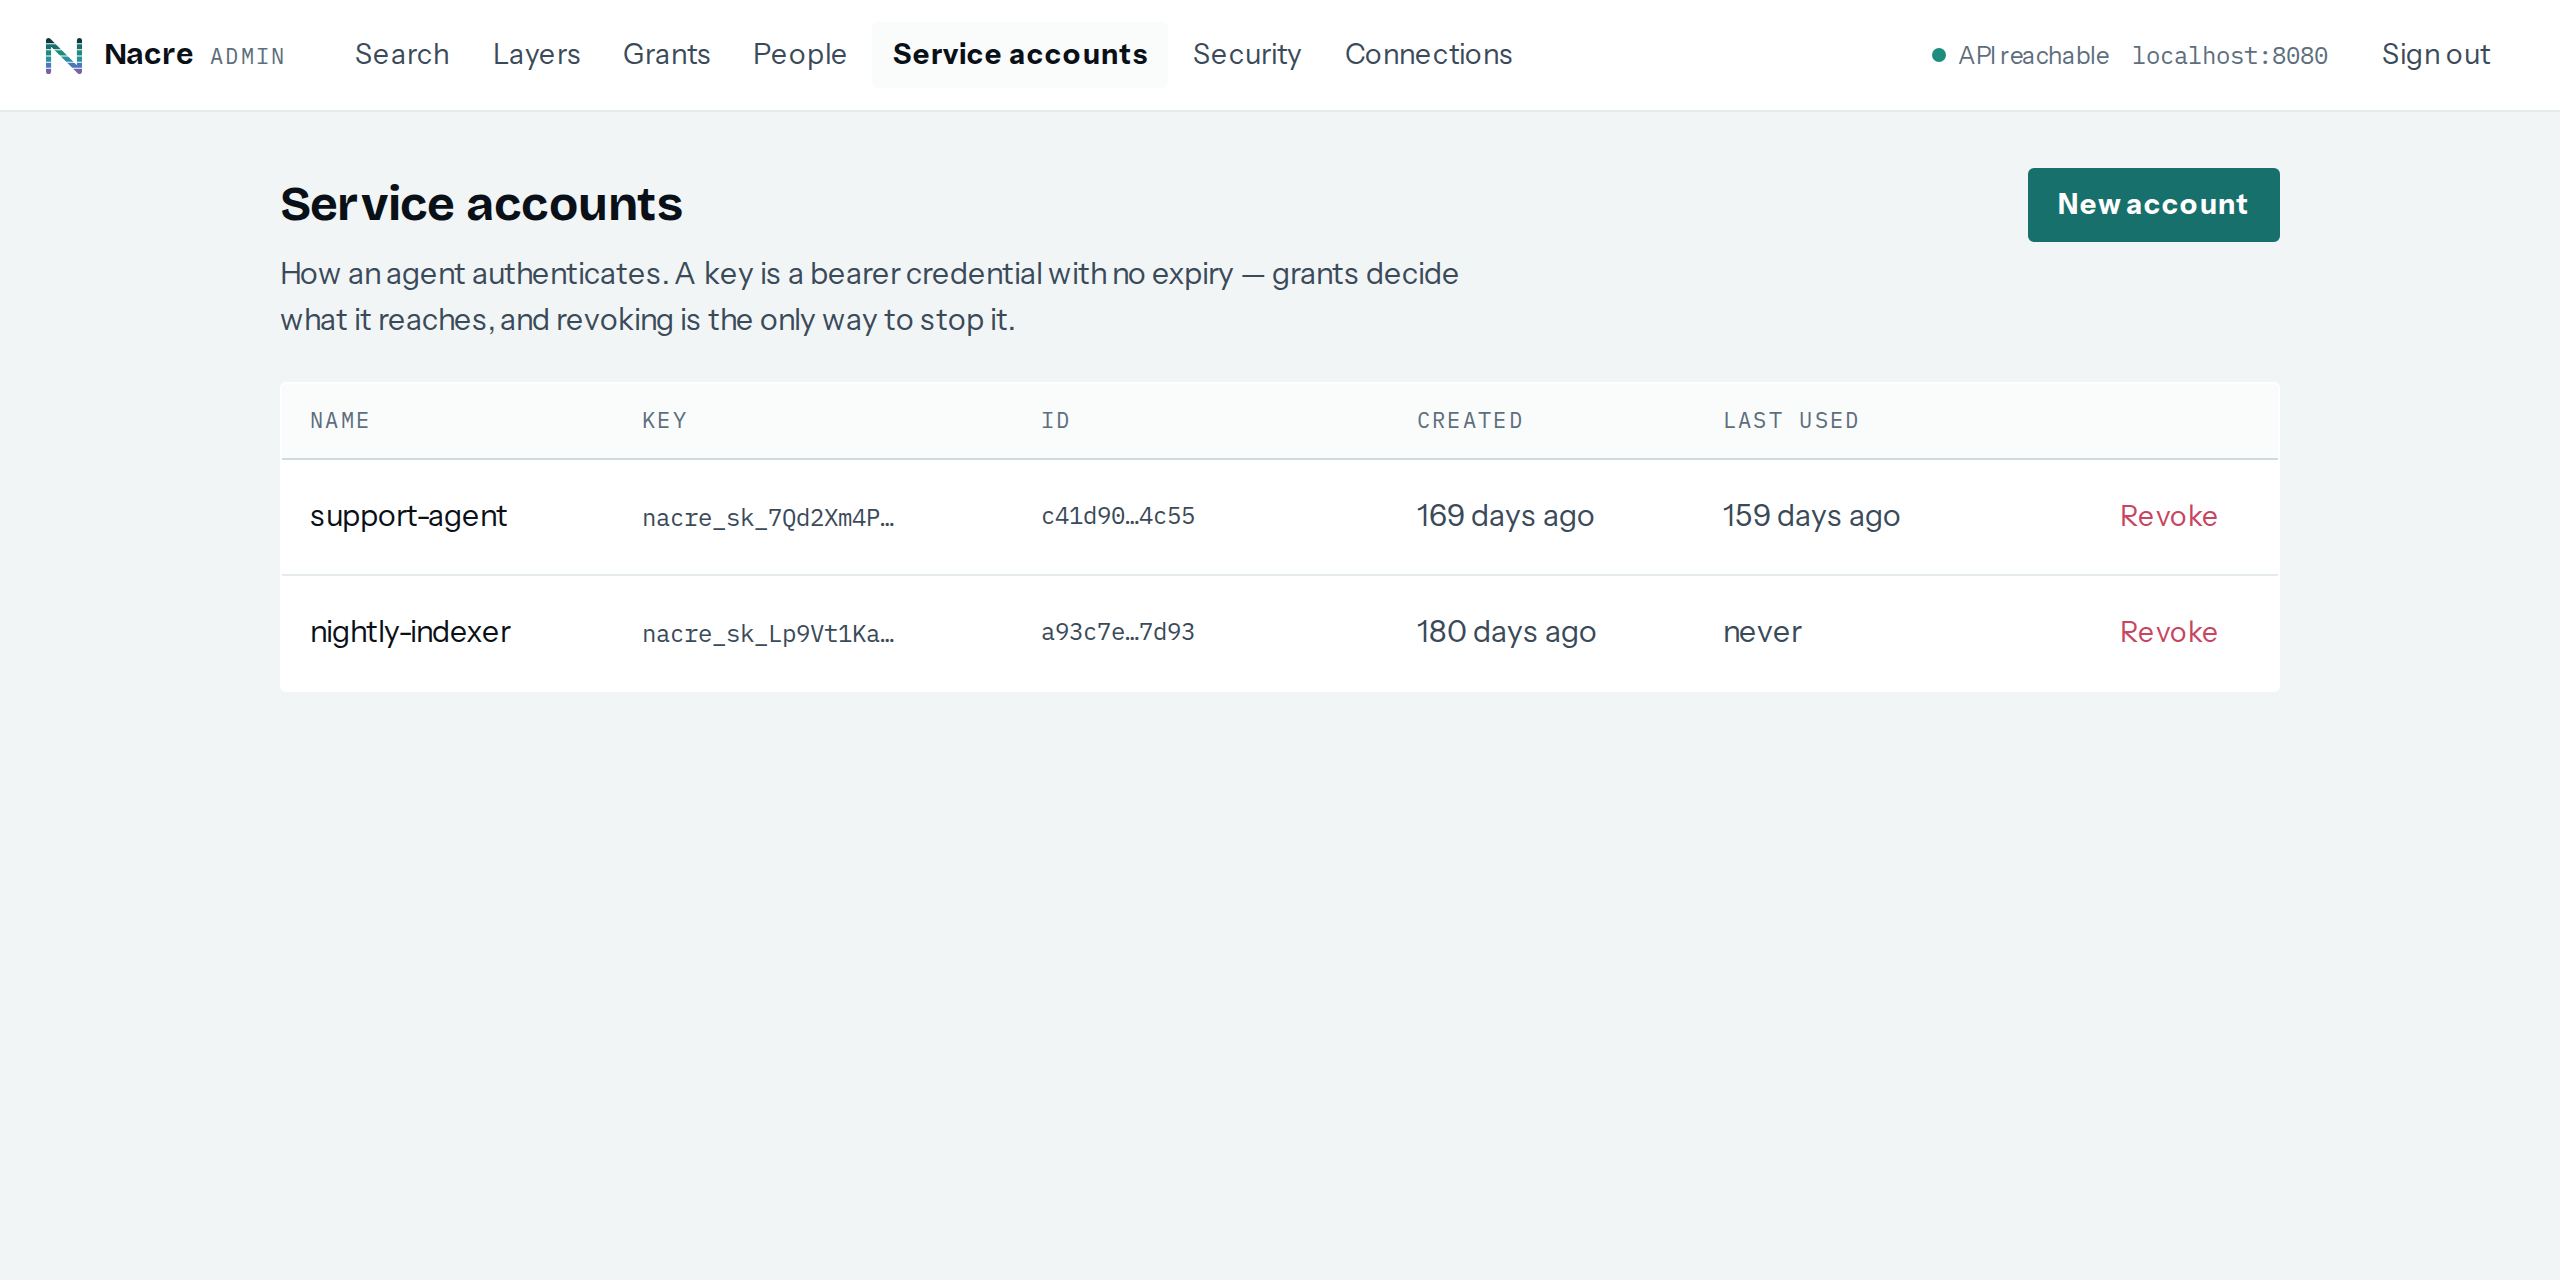
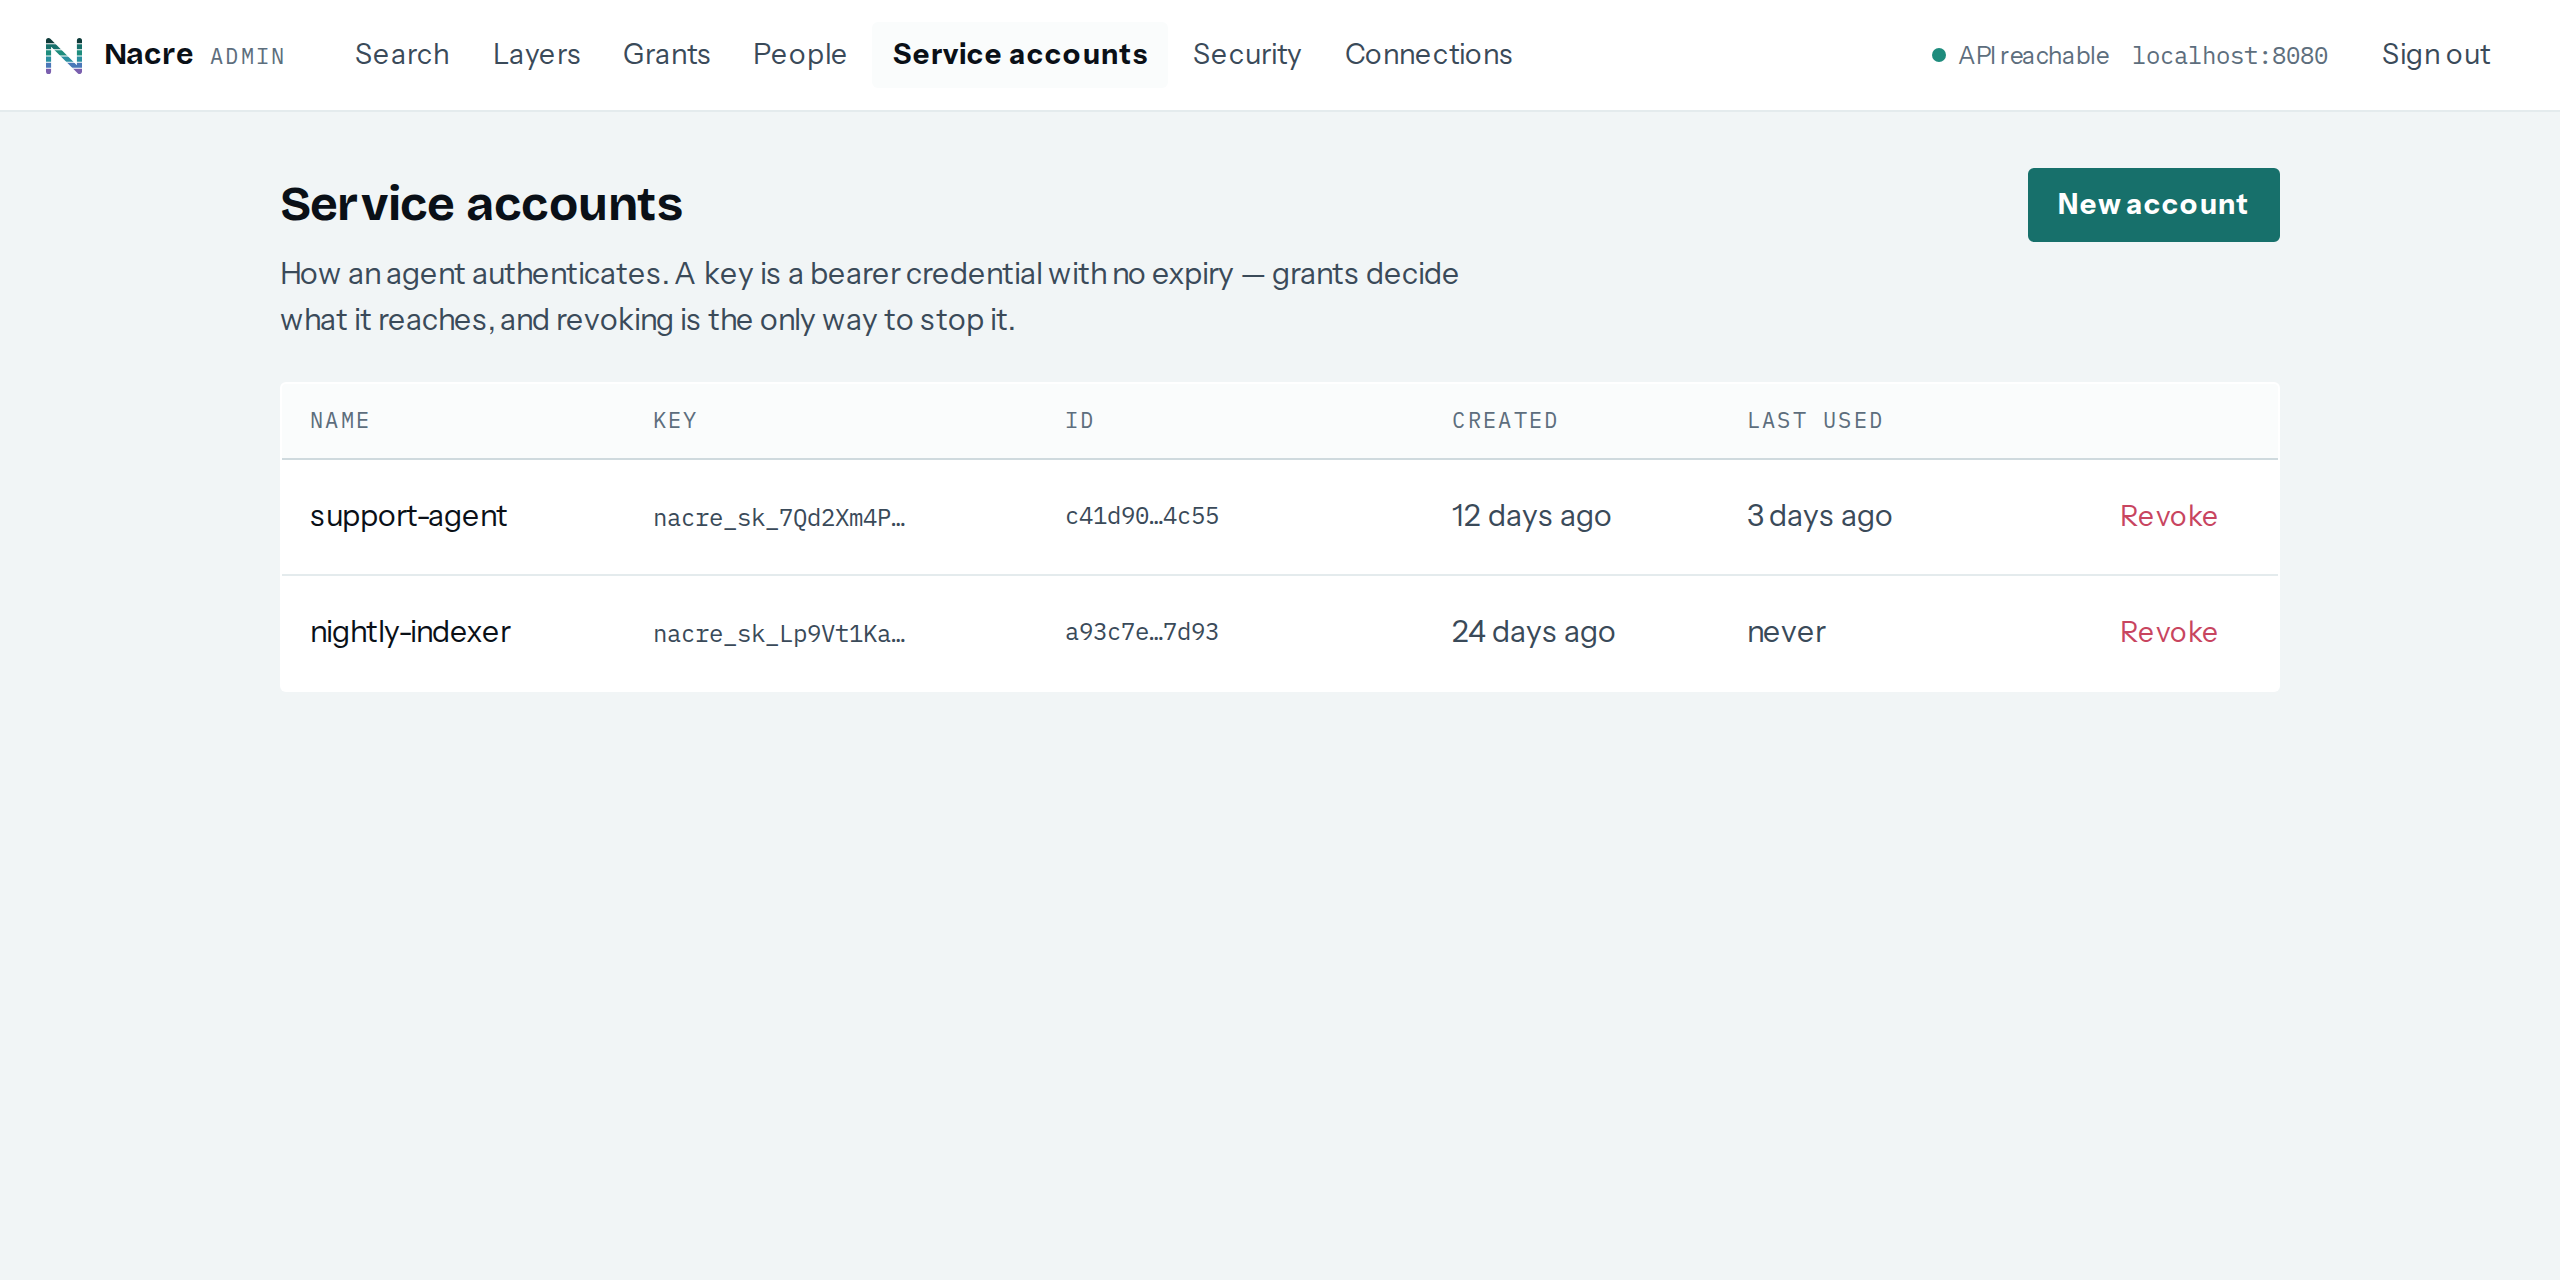
test(console): the screenshot run measures geometry, and its clock is frozen (#215)
* test(console): the screenshot run measures geometry, and its clock is frozen

Two things that compose. The fixtures carry absolute dates and the views render
relative times, so accounts.png and people.png changed on a wall-clock boundary
with no code change — two runs eleven minutes apart differed because a
created_at crossed 181 days. page.clock.setFixedTime pins it, checked by
rendering twice and comparing bytes.

That is what makes the second one possible: a control needs 8px of headroom from
the nearest box that ends above it and overlaps it horizontally, which is the
rule lint:admin-layout structurally cannot have because it reads the stylesheet
and this is geometry. The instance was the recovery link at zero pixels under
the Sign in button.

Its first version reported thirty things and named the one real defect among
them. A field's own label, one table row against the next, and an inline sibling
whose box ends a pixel high are all arrangements where being close is the
design; a modal measured against the page behind it was the check's own bug.
Zero findings on a clean tree, and restoring the flush link names exactly it.

And it runs in CI as the "console" job, since a check nobody runs is worse than
none. The images are deliberately not compared: whether a layout fits is decided
by the runner's font.

Claude-Session: https://claude.ai/code/session_01VyoRZgaKQuJJSJ6iSPBHD7

* fix(ci): the console job builds the workspace, not only the console
[…]

diff --git a/CLAUDE.md b/CLAUDE.md
@@ -1578,11 +1578,43 @@ missing an item; regenerating them is part of this rather than noise.
 
 The link itself sat at **zero pixels** under the Sign in button — `.hint`
 carries no top margin and `.btn-block` only a small one — so a mis-tap on a
-full-width button lands on "forgotten your password". That is fixed as an
-instance and is deliberately *not* claimed as a repair: `lint:admin-layout`
-reads the stylesheet and this is geometry, which needs a browser. The check
-that would find the next one belongs in `screenshots.mjs`, which already opens
-every screen in one, and is written down as work rather than as a comment.
+full-width button lands on "forgotten your password".
+
+**`screenshots.mjs` measures that now**, which is what turns it from an instance
+into a repair. `lint:admin-layout` reads the stylesheet and this is geometry;
+that script already opens every screen in a browser, so the question goes where
+the browser is: for every control, how far is the nearest box that ends above it
+and overlaps it horizontally. The general question rather than
+control-against-control, because the sibling repository learned that the narrow
+way round and its next instance was a control under a *paragraph*.
+
+**Its first version reported thirty things across fourteen screens and named the
+one real defect among them**, which is a check nobody reads. Three of the four
+arrangements it flagged are ones where being close is the design: a field's own
+label four pixels above its input, one table row's action against the next
+row's, and an inline sibling on the same line whose box ends a pixel high
+because the two are baseline-aligned. Each is excluded by name and with its
+reason. The fourth was the check's own defect — a modal is a layer *over* the
+page, so the New user dialog's Cancel button was measured against the users
+table behind it, which is a fact about stacking. It measures one root at a time
+now. Zero findings on a clean tree, and restoring the flush link names exactly
+it.
+
+**And the run itself is in CI**, as `console`, which is what stops this being a
+gate somebody has to remember to run. Playwright is installed for the job rather
+than becoming a dependency. The **images are not compared** and that is
+deliberate: whether a layout fits is decided by whatever font the runner has, so
+a byte comparison would be red on one machine and green on another for reasons
+about neither the code nor the design. What is asserted is what a browser
+decides — geometry, page errors, missing fixtures, and which view rendered.
+
+That job is only possible because the clock is frozen. `accounts.png` and
+`people.png` used to change on a wall-clock boundary with no code change — two
+runs eleven minutes apart differed because a `created_at` crossed 181 days,
+since the fixtures carry absolute dates and the views render relative times. A
+regeneration that rewrites unrelated files is how a screenshot diff stops
+meaning anything. `page.clock.setFixedTime` pins it, checked by rendering twice
+and comparing bytes.
 
 **And three of the four routes that hash answered `500` under load.**
 `core/passwords.ts` bounds how many scrypt calls run at once — the pool is
